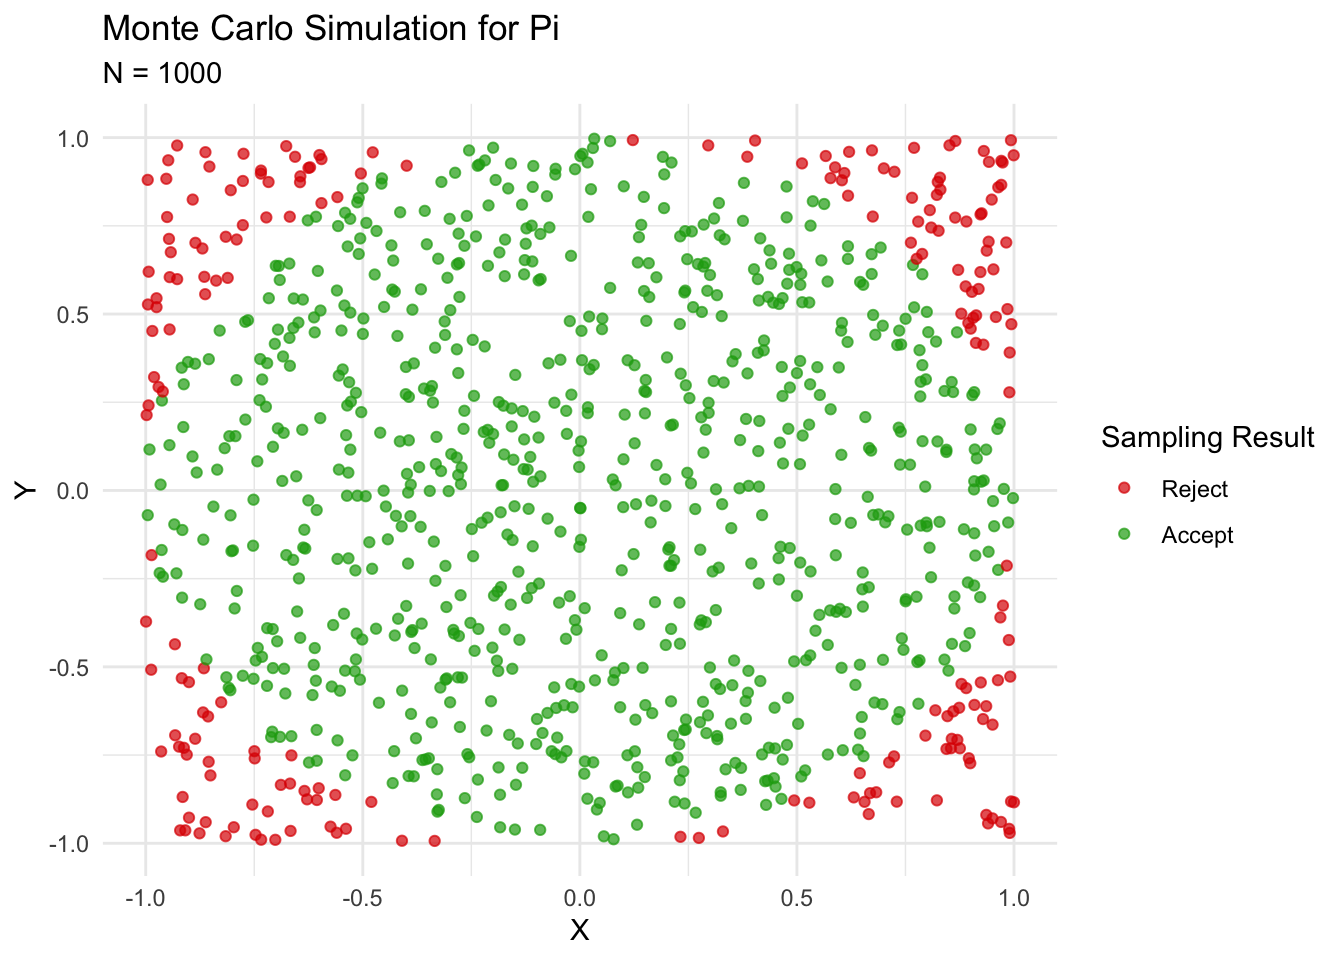
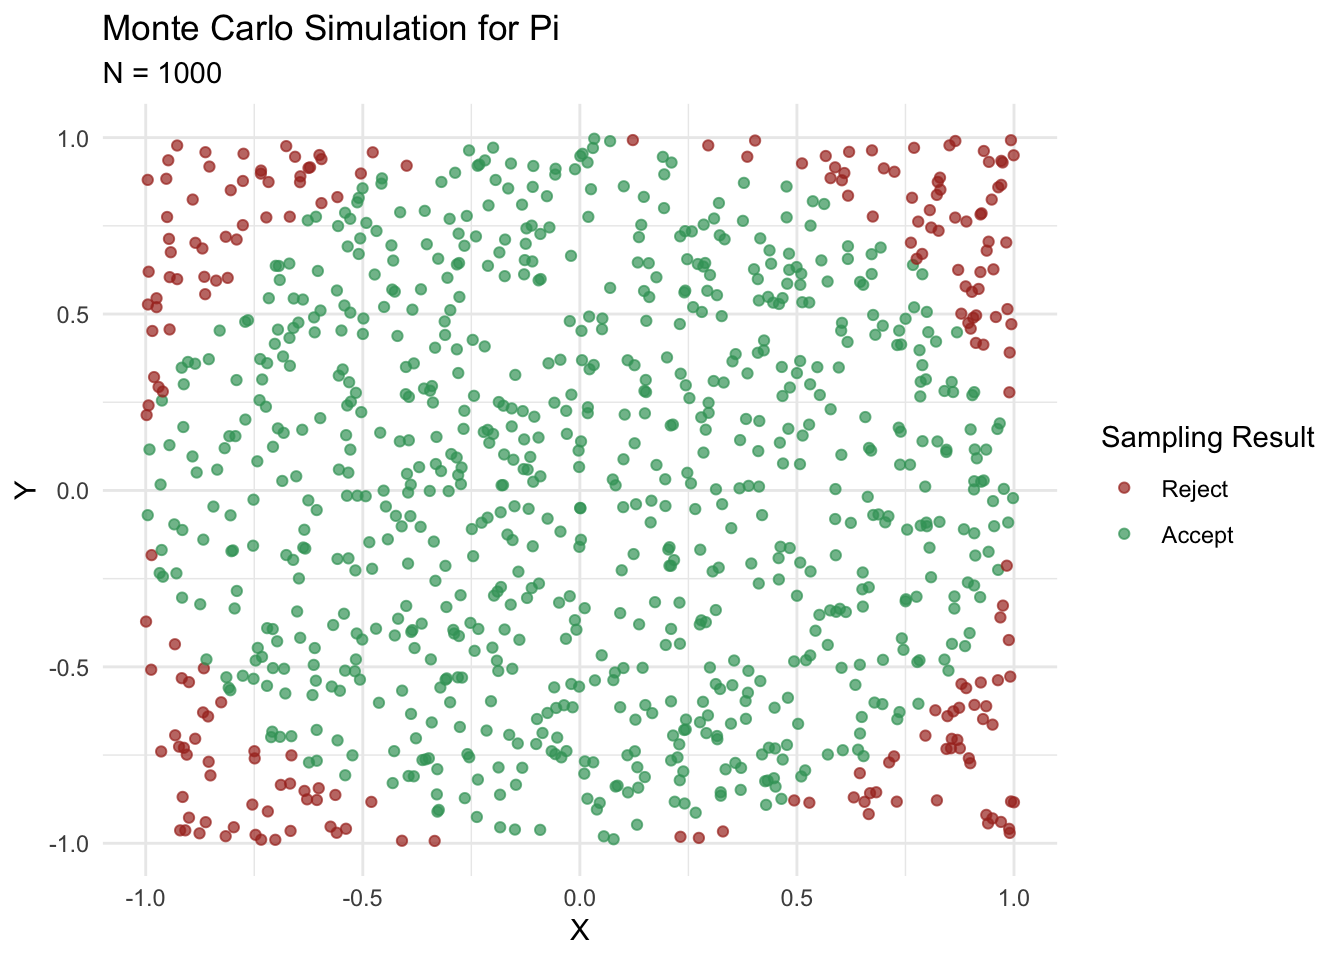
colour grading

diff --git a/P_Bayesian_TS.html b/P_Bayesian_TS.html
@@ -609,8 +609,8 @@ AR1_fit &lt;- rstan::stan(&quot;Stan_files/AR1.stan&quot;,
 <pre><code>## 
 ## SAMPLING FOR MODEL &#39;AR1&#39; NOW (CHAIN 1).
 ## Chain 1: 
-## Chain 1: Gradient evaluation took 2.5e-05 seconds
-## Chain 1: 1000 transitions using 10 leapfrog steps per transition would take 0.25 seconds.
+## Chain 1: Gradient evaluation took 6.1e-05 seconds
+## Chain 1: 1000 transitions using 10 leapfrog steps per transition would take 0.61 seconds.
 ## Chain 1: Adjust your expectations accordingly!
 ## Chain 1: 
 ## Chain 1: 
@@ -621,9 +621,9 @@ AR1_fit &lt;- rstan::stan(&quot;Stan_files/AR1.stan&quot;,
 ## Chain 1: Iteration: 1500 / 2000 [ 75%]  (Sampling)
 ## Chain 1: Iteration: 2000 / 2000 [100%]  (Sampling)
 ## Chain 1: 
-## Chain 1:  Elapsed Time: 0.062708 seconds (Warm-up)
-## Chain 1:                0.054304 seconds (Sampling)
-## Chain 1:                0.117012 seconds (Total)
+## Chain 1:  Elapsed Time: 0.095219 seconds (Warm-up)
+## Chain 1:                0.052849 seconds (Sampling)
+## Chain 1:                0.148068 seconds (Total)
 ## Chain 1: 
 ## 
 ## SAMPLING FOR MODEL &#39;AR1&#39; NOW (CHAIN 2).
@@ -640,15 +640,15 @@ AR1_fit &lt;- rstan::stan(&quot;Stan_files/AR1.stan&quot;,
 ## Chain 2: Iteration: 1500 / 2000 [ 75%]  (Sampling)
 ## Chain 2: Iteration: 2000 / 2000 [100%]  (Sampling)
 ## Chain 2: 
-## Chain 2:  Elapsed Time: 0.061356 seconds (Warm-up)
-## Chain 2:                0.05047 seconds (Sampling)
-## Chain 2:                0.111826 seconds (Total)
+## Chain 2:  Elapsed Time: 0.061543 seconds (Warm-up)
+## Chain 2:                0.059348 seconds (Sampling)
+## Chain 2:                0.120891 seconds (Total)
 ## Chain 2: 
 ## 
 ## SAMPLING FOR MODEL &#39;AR1&#39; NOW (CHAIN 3).
 ## Chain 3: 
-## Chain 3: Gradient evaluation took 7e-06 seconds
-## Chain 3: 1000 transitions using 10 leapfrog steps per transition would take 0.07 seconds.
+## Chain 3: Gradient evaluation took 6e-06 seconds
+## Chain 3: 1000 transitions using 10 leapfrog steps per transition would take 0.06 seconds.
 ## Chain 3: Adjust your expectations accordingly!
 ## Chain 3: 
 ## Chain 3: 
@@ -659,9 +659,9 @@ AR1_fit &lt;- rstan::stan(&quot;Stan_files/AR1.stan&quot;,
 ## Chain 3: Iteration: 1500 / 2000 [ 75%]  (Sampling)
 ## Chain 3: Iteration: 2000 / 2000 [100%]  (Sampling)
 ## Chain 3: 
-## Chain 3:  Elapsed Time: 0.067595 seconds (Warm-up)
-## Chain 3:                0.121271 seconds (Sampling)
-## Chain 3:                0.188866 seconds (Total)
+## Chain 3:  Elapsed Time: 0.069295 seconds (Warm-up)
+## Chain 3:                0.06262 seconds (Sampling)
+## Chain 3:                0.131915 seconds (Total)
 ## Chain 3: 
 ## 
 ## SAMPLING FOR MODEL &#39;AR1&#39; NOW (CHAIN 4).
@@ -678,9 +678,9 @@ AR1_fit &lt;- rstan::stan(&quot;Stan_files/AR1.stan&quot;,
 ## Chain 4: Iteration: 1500 / 2000 [ 75%]  (Sampling)
 ## Chain 4: Iteration: 2000 / 2000 [100%]  (Sampling)
 ## Chain 4: 
-## Chain 4:  Elapsed Time: 0.060555 seconds (Warm-up)
-## Chain 4:                0.065954 seconds (Sampling)
-## Chain 4:                0.126509 seconds (Total)
+## Chain 4:  Elapsed Time: 0.063011 seconds (Warm-up)
+## Chain 4:                0.056871 seconds (Sampling)
+## Chain 4:                0.119882 seconds (Total)
 ## Chain 4:</code></pre>
 <pre class="r"><code># the model 
 AR1_fit</code></pre>
@@ -694,7 +694,7 @@ AR1_fit</code></pre>
 ## sigma     1.45    0.00 0.12   1.24   1.36   1.44   1.52   1.70  2626    1
 ## lp__    -70.80    0.03 1.25 -73.92 -71.39 -70.49 -69.86 -69.35  1829    1
 ## 
-## Samples were drawn using NUTS(diag_e) at Sat Mar 27 21:58:08 2021.
+## Samples were drawn using NUTS(diag_e) at Sat Mar 27 22:14:06 2021.
 ## For each parameter, n_eff is a crude measure of effective sample size,
 ## and Rhat is the potential scale reduction factor on split chains (at 
 ## convergence, Rhat=1).</code></pre>
@@ -765,7 +765,7 @@ ARp_fit</code></pre>
 ## sigma      1.17    0.00 0.09   1.00   1.10   1.16   1.22   1.37  1429 1.00
 ## lp__     -55.96    0.06 1.67 -60.18 -56.73 -55.62 -54.79 -53.86   793 1.01
 ## 
-## Samples were drawn using NUTS(diag_e) at Sat Mar 27 21:58:11 2021.
+## Samples were drawn using NUTS(diag_e) at Sat Mar 27 22:14:09 2021.
 ## For each parameter, n_eff is a crude measure of effective sample size,
 ## and Rhat is the potential scale reduction factor on split chains (at 
 ## convergence, Rhat=1).</code></pre>
@@ -830,7 +830,7 @@ ARCH1_fit</code></pre>
 ## sigma      2.12    0.03 0.88    1.02    1.48    1.90   2.51   4.39   670 1.00
 ## lp__    -100.58    0.07 1.48 -104.29 -101.35 -100.24 -99.49 -98.60   444 1.01
 ## 
-## Samples were drawn using NUTS(diag_e) at Sat Mar 27 21:58:14 2021.
+## Samples were drawn using NUTS(diag_e) at Sat Mar 27 22:14:12 2021.
 ## For each parameter, n_eff is a crude measure of effective sample size,
 ## and Rhat is the potential scale reduction factor on split chains (at 
 ## convergence, Rhat=1).</code></pre>
@@ -910,7 +910,7 @@ MAq_fit</code></pre>
 ## sigma       4.11    2.59  2.59    1.33    1.51    4.32   6.70   6.81     1 32.74
 ## lp__     -141.11   59.90 59.93 -202.93 -201.08 -145.80 -80.86 -78.59     1 42.04
 ## 
-## Samples were drawn using NUTS(diag_e) at Sat Mar 27 21:58:45 2021.
+## Samples were drawn using NUTS(diag_e) at Sat Mar 27 22:14:46 2021.
 ## For each parameter, n_eff is a crude measure of effective sample size,
 ## and Rhat is the potential scale reduction factor on split chains (at 
 ## convergence, Rhat=1).</code></pre>
@@ -1010,7 +1010,7 @@ ARMApq_fit</code></pre>
 ## sigma      1.18    0.00 0.09   1.00   1.11   1.17   1.24   1.37   524 1.01
 ## lp__     -56.09    0.05 1.72 -60.19 -56.96 -55.76 -54.83 -53.71  1208 1.00
 ## 
-## Samples were drawn using HMC(diag_e) at Sat Mar 27 22:01:54 2021.
+## Samples were drawn using HMC(diag_e) at Sat Mar 27 22:17:59 2021.
 ## For each parameter, n_eff is a crude measure of effective sample size,
 ## and Rhat is the potential scale reduction factor on split chains (at 
 ## convergence, Rhat=1).</code></pre>

diff --git a/P_pi_sim.html b/P_pi_sim.html
@@ -481,8 +481,8 @@ div.tocify {
 </div>
 
 
-<p>A classic exercise when learning how to use Monte Carlo simulations (or just simulations in general) is to find pi – yes, this <span class="math inline">\(\pi\)</span>. As we all know from our elementary level mathematics courses, pi is the ratio of the circle’s diameter to its radius <em>or</em> the ratio of the circle’s area to the area of a square with sides of the same length as the circle’s radius. That second fact is actually what we will take advantage of in order to do this simulation. Measuring the area of a circle is a difficult task to do empircally so a computer simulation is a useful tool to determine pi to a sufficient degree of precision.</p>
-<p>This post will explore the thinking process behind a bsic rejection sampling scheme that will converge to <span class="math inline">\(\pi\)</span>. The main idea here is that we will use random number generation and some clever mathematical tricks to find the area of the circle to an arbitrary degree of precision.</p>
+<p>A classic exercise when learning how to use Monte Carlo simulations (or just simulations in general) is to find pi – yes, this <span class="math inline">\(\pi\)</span>. As we all know from our elementary level mathematics courses, pi is the ratio of the circle’s diameter to its radius <em>or</em> the ratio of the circle’s area to the area of a square with sides of the same length as the circle’s radius. That second fact is actually what we will take advantage of in order to do this simulation. Measuring the area of a circle is a difficult task to do empirically so a computer simulation is a useful tool to determine pi to a sufficient degree of precision.</p>
+<p>This post will explore the thinking process behind a basic rejection sampling scheme that will converge to <span class="math inline">\(\pi\)</span>. The main idea here is that we will use random number generation and some clever mathematical tricks to find the area of the circle to an arbitrary degree of precision.</p>
 <div id="mathematical-motivation" class="section level1">
 <h1><span class="header-section-number">1</span> Mathematical motivation</h1>
 <p>To motivate this simulation, we need to understand the mathematical formulation which we are interested in. Recall the formula for the area of a circle: <span class="math display">\[\begin{equation}
@@ -550,7 +550,7 @@ plt_1 &lt;- df %&gt;% sample_n(cut_offs[1]) %&gt;%
         geom_point(aes(colour = factor(accept)), alpha = 0.7) + 
         labs(title = &#39;Monte Carlo Simulation for Pi&#39;, 
              subtitle = &quot;N = 1000&quot;) + 
-        scale_colour_manual(values=c(&quot;#DE0101&quot;, &quot;#1AA711&quot;), 
+        scale_colour_manual(values = c(&quot;#A93226&quot;, &quot;#3CA067&quot;), 
                             name = &quot;Sampling Result&quot;,
                             labels = c(&quot;Reject&quot;, &quot;Accept&quot;))+ 
         theme_minimal()
@@ -560,7 +560,7 @@ plt_2 &lt;- df %&gt;% sample_n(cut_offs[2]) %&gt;%
         geom_point(aes(colour = factor(accept)), alpha = 0.7) + 
         labs(title = &#39;Monte Carlo Simulation for Pi&#39;,
              subtitle = &quot;N = 5000&quot;) + 
-        scale_colour_manual(values=c(&quot;#DE0101&quot;, &quot;#1AA711&quot;), 
+        scale_colour_manual(values = c(&quot;#A93226&quot;, &quot;#3CA067&quot;), 
                             name = &quot;Sampling Result&quot;,
                             labels = c(&quot;Reject&quot;, &quot;Accept&quot;))+ 
         theme_minimal()
@@ -570,7 +570,7 @@ plt_3 &lt;- df %&gt;% sample_n(cut_offs[3]) %&gt;%
         geom_point(aes(colour = factor(accept)), alpha = 0.7) + 
         labs(title = &#39;Monte Carlo Simulation for Pi&#39;,
              subtitle = &quot;N = 10000&quot;) + 
-        scale_colour_manual(values=c(&quot;#DE0101&quot;, &quot;#1AA711&quot;), 
+        scale_colour_manual(values = c(&quot;#A93226&quot;, &quot;#3CA067&quot;), 
                             name = &quot;Sampling Result&quot;,
                             labels = c(&quot;Reject&quot;, &quot;Accept&quot;))+ 
         theme_minimal()
@@ -580,7 +580,7 @@ plt_4 &lt;- df %&gt;% sample_n(cut_offs[4]) %&gt;%
         geom_point(aes(colour = factor(accept)), alpha = 0.7) + 
         labs(title = &#39;Monte Carlo Simulation for Pi&#39;,
              subtitle = &quot;N = 50000&quot;) + 
-        scale_colour_manual(values = c(&quot;#DE0101&quot;, &quot;#1AA711&quot;), 
+        scale_colour_manual(values = c(&quot;#A93226&quot;, &quot;#3CA067&quot;), 
                             name = &quot;Sampling Result&quot;,
                             labels = c(&quot;Reject&quot;, &quot;Accept&quot;))+ 
         theme_minimal()
